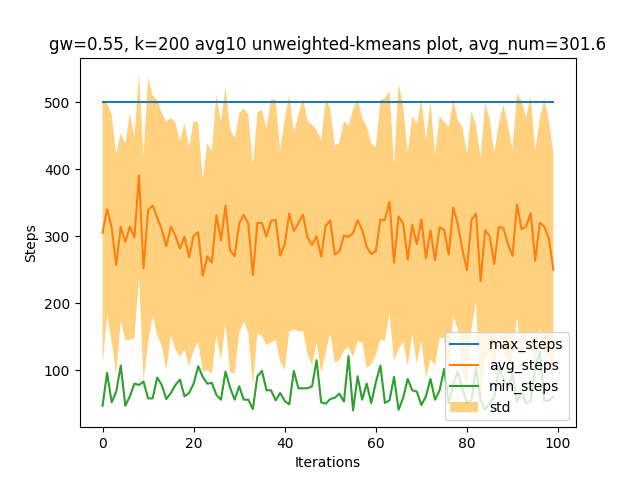
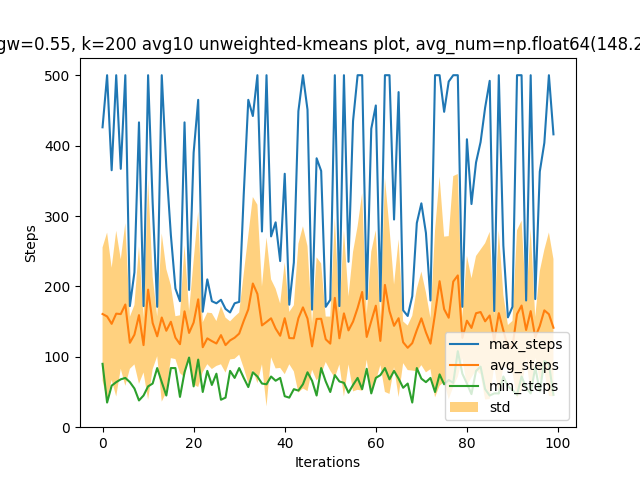
Different results from remote, is linux problem?

diff --git a/genericClients/Mass_testing_client.py b/genericClients/Mass_testing_client.py
@@ -1,6 +1,8 @@
 import matplotlib.pyplot as plt
 
+from multiprocessing import Pool, cpu_count
 from classes.genericBasic import *
+from classes.configHolder import *
 import helper.fileHelper as fileHelper
 import helper.plotHelper as plotHelper
 import time
@@ -13,22 +15,23 @@ SEED_COUNT = 10
 
 GAUSSIANS = [0.515, 0.535, 0.55, 0.565, 0.58]
 GAUSSIANS = [0.2, 0.3, 0.4, 0.5, 0.6, 0.7]
-GAUSSIANS = [0.5]
+GAUSSIANS = [0.55]
 
 K_VALUES = [200, 250, 300, 350, 400]
 K_VALUES = [100, 150, 200, 250, 300, 350, 400]
 K_VALUES = [20, 50, 100, 250]
-K_VALUES = [31]
+K_VALUES = [200]
 
 EXPLORATION_RATES = [0.1]
 
+MULTITHREADING=False
 
 
 RUN_KMEANS_UNWEIGHTED = True
 RUN_KMEANS_UNWEIGHTED = False
 
-RUN_KMEANS_WEIGHTED = True
 RUN_KMEANS_WEIGHTED = False
+RUN_KMEANS_WEIGHTED = True
 
 RUN_KMEANS_VECTOR = True
 RUN_KMEANS_VECTOR = False
@@ -42,8 +45,8 @@ RUN_BASIC = False
 RUN_BASIC_NO_LEARN = True
 RUN_BASIC_NO_LEARN = False
 
-RUN_SPECIAL_KMEANS = False
 RUN_SPECIAL_KMEANS = True
+RUN_SPECIAL_KMEANS = False
 
 RUN_WEIGHTED_SPECIAL_KMEANS = True
 RUN_WEIGHTED_SPECIAL_KMEANS = False
@@ -58,14 +61,52 @@ def run_program_with_different_seeds(plot_name, plot_title, seed_count=3,
                 kmeans_episodes=kMeansClient.KMEANS_RUNNING_LENGTH, weighted_kmeans=True, render_mode=kMeansClient.RENDER_MODE,
                 game_mode=kMeansClient.GAME_MODE, k=kMeansClient.K_MEANS_K, save_plot=True, ignore_kmeans=False,
                 use_vectors=RUN_KMEANS_VECTOR, vector_type=1, learn=True, use_special_kmeans=False):
-    datas = []
-    for seed in range(seed_count):
-        data = kMeansClient.run_program(seed=seed, discount_factor=discount_factor, gaussian_width=gaussian_width,
+
+    if MULTITHREADING:
+        config_holder = configHolder(discount_factor=discount_factor, gaussian_width=gaussian_width,
+                                     exploration_rate=exploration_rate, standard_episodes=standard_episodes,
+                                     kmeans_episodes=kmeans_episodes, weighted_kmeans=weighted_kmeans,
+                                     render_mode=render_mode,
+                                     game_mode=game_mode, k=k, save_plot=False, ignore_kmeans=ignore_kmeans,
+                                     use_vectors=use_vectors,
+                                     vector_type=vector_type, learn=learn, do_standardize=True,
+                                     use_special_kmeans=use_special_kmeans)
+        datas = []
+        pool = Pool(processes=(cpu_count() - 1))
+        with Pool((cpu_count() - 1)) as p:
+            datas = p.map(config_holder.run_with_seed, range(seed_count))
+
+        datas = np.asarray(datas)
+    else:
+        datas = []
+        for seed in range(seed_count):
+            data = kMeansClient.run_program(seed=seed, discount_factor=discount_factor, gaussian_width=gaussian_width,
+                                            exploration_rate=exploration_rate, standard_episodes=standard_episodes,
+                                            kmeans_episodes=kmeans_episodes, weighted_kmeans=weighted_kmeans, render_mode=render_mode,
+                                            game_mode=game_mode, k=k, save_plot=False, ignore_kmeans=ignore_kmeans, use_vectors=use_vectors,
+                                            vector_type=vector_type, learn=learn, do_standardize=True, use_special_kmeans=use_special_kmeans)
+            datas.append(data)
+        datas = np.asarray(datas)
+    plotHelper.plot_with_max_min_mean_std(datas, plot_name, ("M" if MULTITHREADING else "") + plot_title)
+    return datas
+
+def run_program_with_different_seeds_multiP(plot_name, plot_title, seed_count=3,
+                discount_factor=kMeansClient.DISCOUNT_FACTOR, gaussian_width=kMeansClient.GAUSSIAN_WIDTH,
+                exploration_rate=kMeansClient.EXPLORATION_RATE, standard_episodes=kMeansClient.STANDARD_RUNNING_LENGTH,
+                kmeans_episodes=kMeansClient.KMEANS_RUNNING_LENGTH, weighted_kmeans=True, render_mode=kMeansClient.RENDER_MODE,
+                game_mode=kMeansClient.GAME_MODE, k=kMeansClient.K_MEANS_K, save_plot=True, ignore_kmeans=False,
+                use_vectors=RUN_KMEANS_VECTOR, vector_type=1, learn=True, use_special_kmeans=False):
+
+    config_holder = configHolder(discount_factor=discount_factor, gaussian_width=gaussian_width,
                                         exploration_rate=exploration_rate, standard_episodes=standard_episodes,
                                         kmeans_episodes=kmeans_episodes, weighted_kmeans=weighted_kmeans, render_mode=render_mode,
                                         game_mode=game_mode, k=k, save_plot=False, ignore_kmeans=ignore_kmeans, use_vectors=use_vectors,
                                         vector_type=vector_type, learn=learn, do_standardize=True, use_special_kmeans=use_special_kmeans)
-        datas.append(data)
+    datas = []
+    pool = Pool(processes=(cpu_count() - 1))
+    with Pool((cpu_count()-1)) as p:
+            datas = p.map(config_holder.run_with_seed, range(seed_count))
+
     datas = np.asarray(datas)
     plotHelper.plot_with_max_min_mean_std(datas, plot_name, plot_title)
     return datas

diff --git a/classes/configHolder.py b/classes/configHolder.py
@@ -1,0 +1,36 @@
+from genericClients import kMeansClient
+
+class configHolder:
+    def __init__(self, discount_factor=kMeansClient.DISCOUNT_FACTOR, gaussian_width=kMeansClient.GAUSSIAN_WIDTH,
+                exploration_rate=kMeansClient.EXPLORATION_RATE, standard_episodes=kMeansClient.STANDARD_RUNNING_LENGTH,
+                kmeans_episodes=kMeansClient.KMEANS_RUNNING_LENGTH, weighted_kmeans=True, render_mode=kMeansClient.RENDER_MODE,
+                game_mode=kMeansClient.GAME_MODE, k=kMeansClient.K_MEANS_K, save_plot=True, ignore_kmeans=False,
+                use_vectors=False, vector_type=1, learn=True, use_special_kmeans=False, do_standardize=True):
+        self.discount_factor=discount_factor
+        self.gaussian_width=gaussian_width
+        self.exploration_rate = exploration_rate
+        self.standard_episodes = standard_episodes
+        self.kmeans_episodes = kmeans_episodes
+        self.weighted_kmeans = weighted_kmeans
+        self.render_mode = render_mode
+        self.game_mode = game_mode
+        self.k = k
+        self.save_plot = save_plot
+        self.ignore_kmeans=ignore_kmeans
+        self.use_vectors = use_vectors
+        self.vector_type=vector_type
+        self.learn= learn
+        self.use_special_kmeans = use_special_kmeans
+        self.do_standardize = do_standardize
+
+    def run_with_seed(self, seed):
+        data = kMeansClient.run_program(seed=seed, discount_factor=self.discount_factor, gaussian_width=self.gaussian_width,
+                                        exploration_rate=self.exploration_rate, standard_episodes=self.standard_episodes,
+                                        kmeans_episodes=self.kmeans_episodes, weighted_kmeans=self.weighted_kmeans,
+                                        render_mode=self.render_mode,
+                                        game_mode=self.game_mode, k=self.k, save_plot=self.save_plot, ignore_kmeans=self.ignore_kmeans,
+                                        use_vectors=self.use_vectors,
+                                        vector_type=self.vector_type, learn=self.learn,
+                                        use_special_kmeans=self.use_special_kmeans,
+                                        do_standardize=self.do_standardize)
+        return data

diff --git a/main.py b/main.py
@@ -1,20 +1,22 @@
 # This is a sample Python script.
-
+from multiprocessing import Pool, cpu_count
 # Press Shift+F10 to execute it or replace it with your code.
 # Press Double Shift to search everywhere for classes, files, tool windows, actions, and settings.
+import time
+import numpy as np
+
+def print_cube(num):
+    time.sleep(num)
+    print(f"hello from process{num}")
+    aa1 = num * num * num
+    time.sleep(2)
+    return aa1
 
 
-def print_hi(name):
-    # Use a breakpoint in the code line below to debug your script.
-    print(f'Hi, {name}')  # Press Ctrl+F8 to toggle the breakpoint.
-    s1 = f"sdf\\sdf\\sdf"
-    print(s1)
-    s2 = s1.replace(f"\\", "/")
-    print(s2)
+def main():
+    mat = np.arange(1, 10).reshape(3, 3)
+    print(np.round(mat/7, 2))
 
 
-# Press the green button in the gutter to run the script.
-if __name__ == '__main__':
-    print_hi('PyCharm')
-
-# See PyCharm help at https://www.jetbrains.com/help/pycharm/
+if __name__ == "__main__":
+    main()

diff --git a/genericClients/kMeansClient.py b/genericClients/kMeansClient.py
@@ -13,7 +13,7 @@ RENDER_MODE = None  # Set to None to run without graphics
 GAME_MODE = "CartPole-v1"
 #game_mode = "LunarLander-v2"
 
-DISCOUNT_FACTOR = 1.0  # Low discount penalize longer episodes.
+DISCOUNT_FACTOR = 0.99999  # Low discount penalize longer episodes.
 # For example, shorter paths to the goal will receive higher reward than longer paths,
 # even though the rewards from the environment are the same.
 # Not necessarily applicable to every environment, such as cart pole, where the goal is to stay alive as long as possible,

diff --git a/classes/genericBasic.py b/classes/genericBasic.py
@@ -207,7 +207,7 @@ class GenericModel:
             self.kmeans_centers = KMeans(n_clusters=self.K, random_state=0, n_init='auto').fit(self.standardized_states, sample_weight=self.weights).cluster_centers_
 
 
-        if run_tsne or True:
+        if run_tsne:
             self.tsne()
         if self.use_vectors:
             self.center_vectors = self.calc_kmeans_center_vector(self.kmeans_centers)

diff --git a/helper/plotHelper.py b/helper/plotHelper.py
@@ -47,7 +47,8 @@ def get_std_deviation(datas):
 
 def plot_with_max_min_mean_std(datas, plot_name, plot_title):
     avg_data, max_data, min_data = average_max_min_diagrams(datas)
-    avg_num = np.round(np.mean(avg_data), 2)
+    avg_num = np.round(np.mean(avg_data), 2).item()
+
     std = datas.std(axis=0)
     plt.plot(max_data, label='max_steps')
     plt.plot(avg_data, label='avg_steps')
